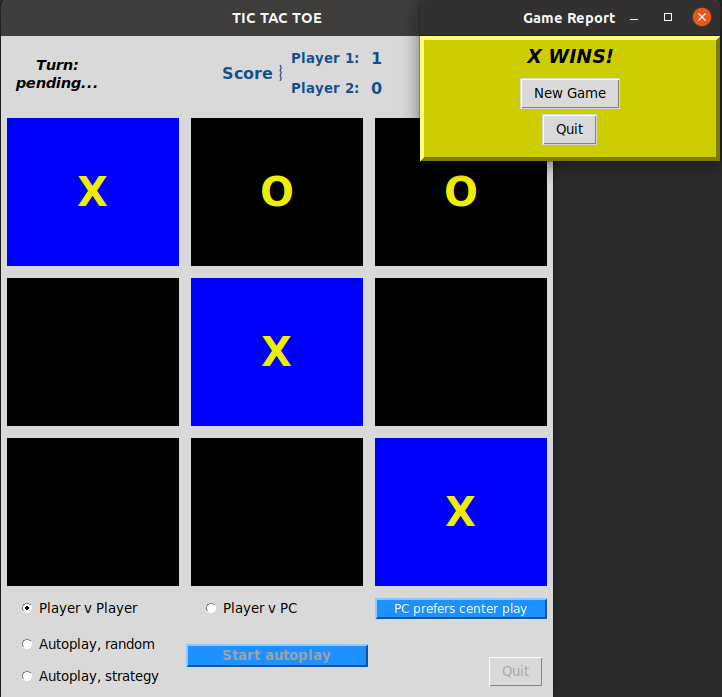
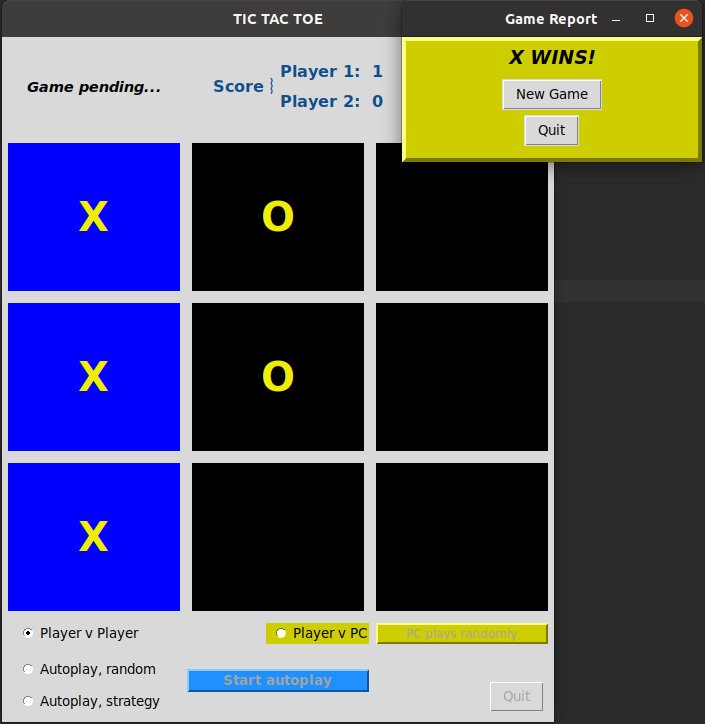
version 0.0.2: update README.md

diff --git a/README.md b/README.md
@@ -35,15 +35,7 @@ Player 2 tied the second game; a half point was awarded to each player:
 
 In Autoplay mode (computer vs computer), 1000 turns are played. Scores are updated in realtime through the series of about 120 to 140 games.
 
-In Autoplay or Player v PC game modes, there is an option to have computer play its first turn randomly or play the center square if available. The PC preference can be changed on-the-fly.
-
-Popup windows announce user selection errors:
-
-![mode_error](images/autoplay_mode_err.png)
-
-and asks for confirmation:
-
-![confirm](images/confirm_quit.png)
+In Player v PC game mode, you can choose to have computer play with different preferences.
 
 ### Known Issues
 Waiting for feedback...
